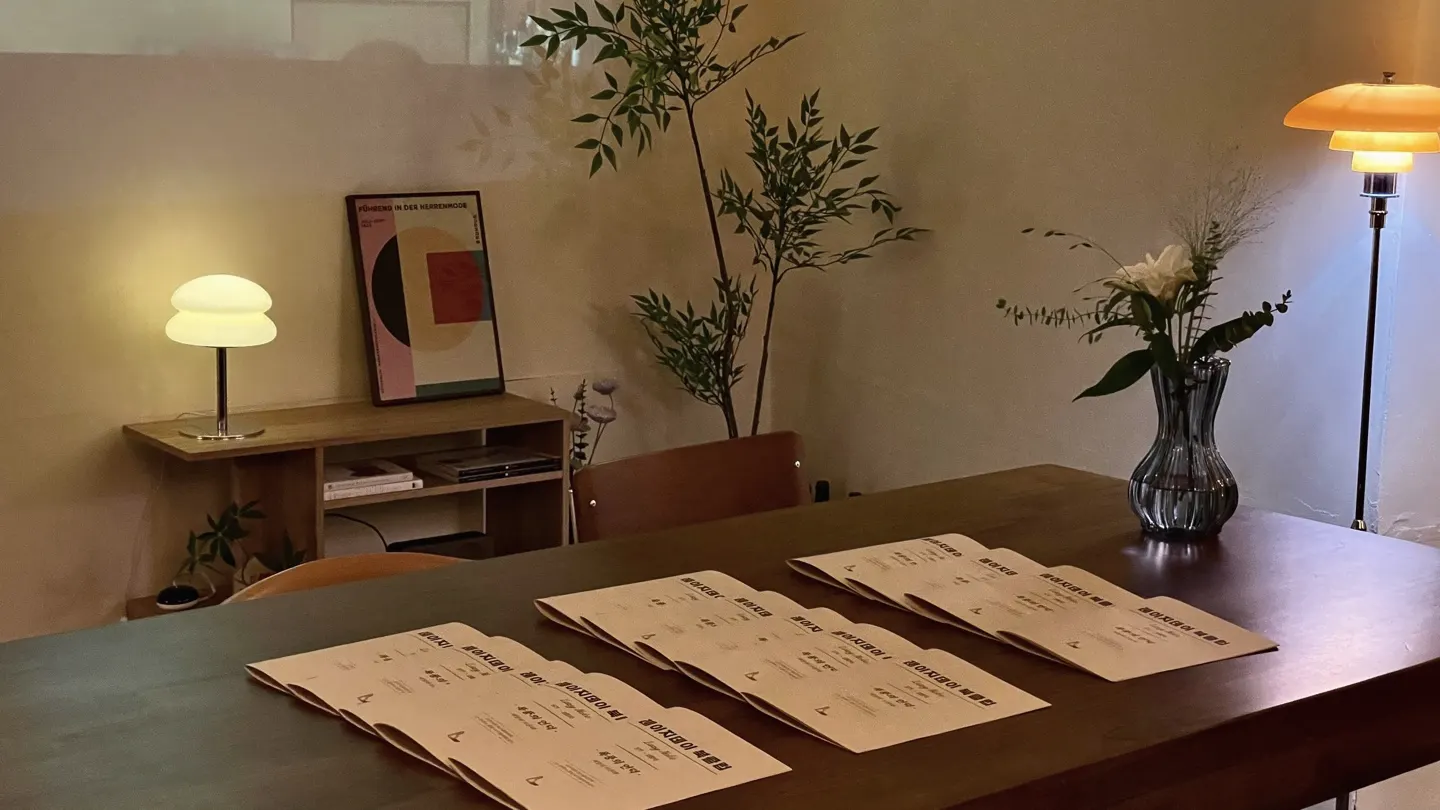
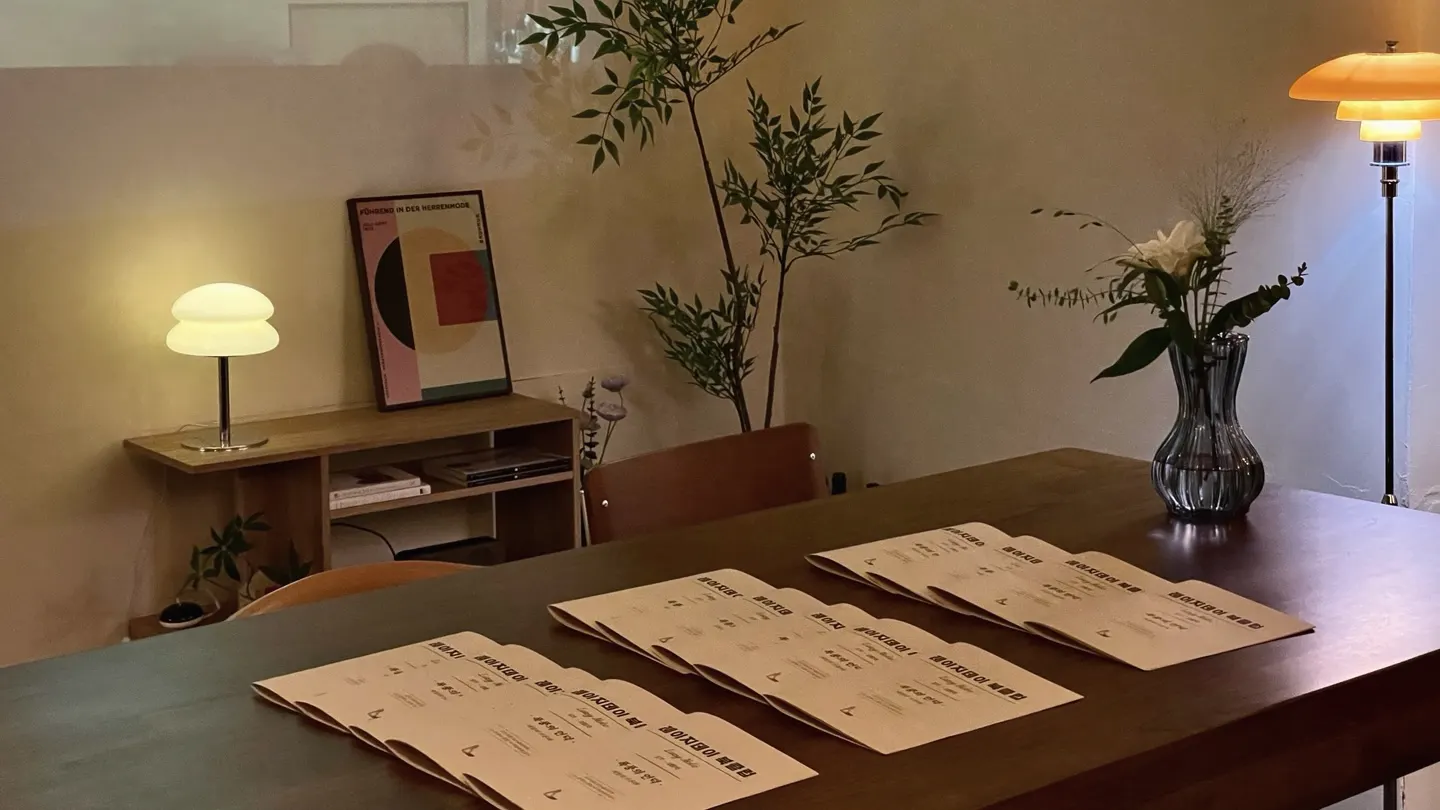
모임소개 1번 사진을 001-2로 교체 + 잉크 워시 .38→.34
운영자 지시 — ① people 자리를 드라이브 001-2(1440x810)로 교체,
기존 방식 최적화(WebP q78 65KB, 채도 0.85·대비 0.97 보정 유지)
② 사진 워시 오버레이 불투명도 아주 살짝 완화 (실·프리뷰 쌍 동일)

Claude-Session: https://claude.ai/code/session_013ETPbbhmfoeaZFrxyoceC3

diff --git a/app/(main)/lazyday/FeatureQuietSection.module.css b/app/(main)/lazyday/FeatureQuietSection.module.css
@@ -33,10 +33,11 @@
   overflow: hidden;
 }
 .qtPhotoWash {
-  /* 잉크 워시 오버레이 — 팔레트 잉크(#1a1208) 기반, 사진 채도를 눌러 오트 톤에 앉힘 */
+  /* 잉크 워시 오버레이 — 팔레트 잉크(#1a1208) 기반, 사진 채도를 눌러 오트 톤에 앉힘.
+     .38 → .34 아주 살짝 완화 (운영자 지시 2026-07-29 "불투명도는 아주 살짝 더 낮춰") */
   position: absolute;
   inset: 0;
-  background: rgba(26, 18, 8, 0.38);
+  background: rgba(26, 18, 8, 0.34);
   pointer-events: none;
 }
 

diff --git a/app/(main)/lazyday/preview/FeatureQuietSection.module.css b/app/(main)/lazyday/preview/FeatureQuietSection.module.css
@@ -32,10 +32,11 @@
   overflow: hidden;
 }
 .qtPhotoWash {
-  /* 잉크 워시 오버레이 — 팔레트 잉크(#1a1208) 기반, 사진 채도를 눌러 오트 톤에 앉힘 */
+  /* 잉크 워시 오버레이 — 팔레트 잉크(#1a1208) 기반, 사진 채도를 눌러 오트 톤에 앉힘.
+     .38 → .34 아주 살짝 완화 (운영자 지시 2026-07-29 "불투명도는 아주 살짝 더 낮춰") */
   position: absolute;
   inset: 0;
-  background: rgba(26, 18, 8, 0.38);
+  background: rgba(26, 18, 8, 0.34);
   pointer-events: none;
 }
 
